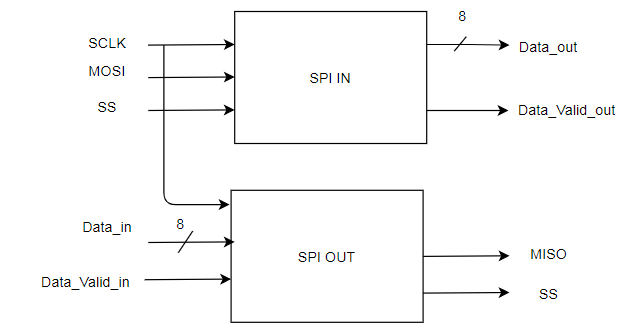
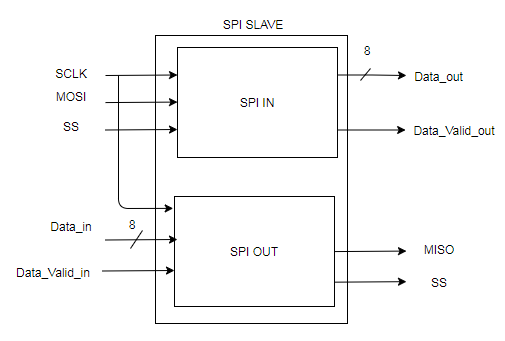
doc

diff --git a/README.md b/README.md
@@ -1,7 +1,20 @@
-# 09_COM_FPGA_uC
-## Communication FPGA uC
-## La partie STM32 est documentée, la documentation des fonctions utilisées est sur le code.
-## Logiciels utilisés CubeMX et CubeIDE
-## carte utilisée pour le test NUCLEO-L152RE
-## Chemin du fichier main dans le projet: 09_COM_FPGA_uC/spi_stm32/spi_stm32/Core/Src/
+# Communication entre FPGA et uC
 
+![](Images/Communication.PNG)
+
+## Librarie STM32 (SPI MASTER)
+
+La librairie est encore en developpement.
+
+Environnement de developpement : CubeMX et CubeIDE
+note : La partie STM32 est documentée
+Chemin du fichier main dans le projet: 09_COM_FPGA_uC/spi_stm32/spi_stm32/Core/Src/
+
+## Librairie FPGA (SPI SLAVE)
+
+Les components se trouvent dans le dossier "Components FPGA SPI".
+
+![](Images/Component_SPI.PNG)
+
+
+Note : carte utilisée pour le test NUCLEO-L152RE
